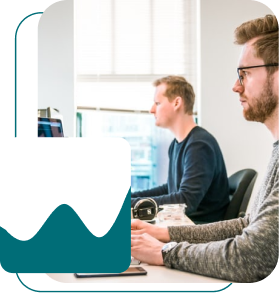
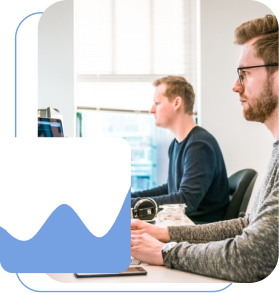
ok

diff --git a/index.html b/index.html
@@ -4,28 +4,30 @@
     <meta charset="UTF-8">
     <meta http-equiv="X-UA-Compatible" content="IE=edge">
     <meta name="viewport" content="width=device-width, initial-scale=1.0">
-    <title>Go Pro landing page</title>
+    <title>Landing Page</title>
+    <link href="https://cdn.jsdelivr.net/npm/bootstrap@5.3.0-alpha1/dist/css/bootstrap.min.css" rel="stylesheet" integrity="sha384-GLhlTQ8iRABdZLl6O3oVMWSktQOp6b7In1Zl3/Jr59b6EGGoI1aFkw7cmDA6j6gD" crossorigin="anonymous">
     <link rel="stylesheet" href="style.css">
+    
 </head>
 <body>
   <section class="hero">
     <section class="semihero-one">
         <div class="nav">
             <div class="nav-logo">
-                <img src="/images/Logo.png" alt="logoGoPro">
+                <img src="/images/logo1.png" alt="logoGoPro">
             </div>
             <div class="nav-menu">
                 <ul>
                     <li class="active"><a href=""></a>Home</li>
-                    <li><a href=""></a>About   <img src="/images/down-arrow.png" alt="downarrowicon" class="downarrowicon"></li>
-                    <li><a href=""></a>Company <img src="/images/down-arrow.png" alt="downarrowicon" class="downarrowicon"></li>
-                    <li><a href=""></a>Pages   <img src="/images/down-arrow.png" alt="downarrowicon" class="downarrowicon"></li>
-                    <li><a href=""></a>Blog    <img src="/images/down-arrow.png" alt="downarrowicon" class="downarrowicon"></li>
-                    <li><a href=""></a>Shop    <img src="/images/down-arrow.png" alt="downarrowicon" class="downarrowicon"></li>
+                    <li><a href=""></a>About</li>
+                    <li><a href=""></a>Blog </li>
+                    <li><a href=""></a>Shop </li>
                 </ul>
             </div>
             <div class="nav-getstartedbtn">
-                <button type="button" class="getstartedbtnone">Get Started <img class="arrowimg" src="/images/right-arrow.png " alt=""></button>
+                <button type="button" class="getstartedbtnone">Get Started <svg xmlns="http://www.w3.org/2000/svg" width="16" height="16" fill="currentColor" class="bi bi-arrow-right" viewBox="0 0 16 16">
+                    <path fill-rule="evenodd" d="M1 8a.5.5 0 0 1 .5-.5h11.793l-3.147-3.146a.5.5 0 0 1 .708-.708l4 4a.5.5 0 0 1 0 .708l-4 4a.5.5 0 0 1-.708-.708L13.293 8.5H1.5A.5.5 0 0 1 1 8z"/>
+                  </svg></button>
             </div>
             <div class="nav-menu-icon">
                 <img src="/images/menu.png" alt="menuicon" class="nav-menu-icon">
@@ -35,17 +37,46 @@
     <section class="semihero-two">    
         <div class="hero-content">
             <div class="hero-content-txt">
-                <p class="titleborder">Digital Marketing Agency</p>
+                <p class="titleborder">Basic Or Home</p>
                 <h1>Advanced analytics to <br> grow your business</h1>
                 <p class="hero-content-pargraph">Amet minim mollit non deserunt ullamco est sit aliqua dolor do amet sint. Velit officia <br> consequat duis enim velit mollit. Exercise veniam consequat sunt nostrud amet.</p>
-                <button type="button" class="getstartedbtntwo">Get Started <img class="arrowimg" src="/images/right-arrow-w.png " alt=""></button>
-                <button type="button" class="howitworksbtn">How it works <img class="arrowimg" src="/images/right-arrow.png " alt=""></button>
+                <button type="button" class="getstartedbtntwo">Get Started <svg xmlns="http://www.w3.org/2000/svg" width="16" height="16" fill="currentColor" class="bi bi-arrow-right" viewBox="0 0 16 16">
+                    <path fill-rule="evenodd" d="M1 8a.5.5 0 0 1 .5-.5h11.793l-3.147-3.146a.5.5 0 0 1 .708-.708l4 4a.5.5 0 0 1 0 .708l-4 4a.5.5 0 0 1-.708-.708L13.293 8.5H1.5A.5.5 0 0 1 1 8z"/>
+                  </svg></button>
+                <button type="button" class="howitworksbtn">How it works <svg xmlns="http://www.w3.org/2000/svg" width="16" height="16" fill="currentColor" class="bi bi-arrow-right" viewBox="0 0 16 16">
+                    <path fill-rule="evenodd" d="M1 8a.5.5 0 0 1 .5-.5h11.793l-3.147-3.146a.5.5 0 0 1 .708-.708l4 4a.5.5 0 0 1 0 .708l-4 4a.5.5 0 0 1-.708-.708L13.293 8.5H1.5A.5.5 0 0 1 1 8z"/>
+                  </svg></button>
             </div>
             <div class="hero-content-img">
                 <img src="/images/Image1.png" alt="heroimage" class="hero-content-img">
             </div>
         </div>
     </section>
-  </section>  
+  </section>
+  <section class="two">
+    <div class="pageTwo">
+    <div class="imgpageTwo">
+        <img src="/images/section1.png" alt="people shaking hands" class="imgpage-Two">
+    </div>
+    <div class="contentpageTwo">
+        <p class="titleborder">Discover Us</p>
+        <h2>Fresh ideas for your business <br> design</h2>
+        <br>
+        <p class="p-pageTwo">Amet minim mollit non deserunt ullamco est sit aliqua dolor do <br> amet sint. Velit officia consequat duis enim velit mollit. <br> Exercise veniam consequat sunt nostrud amet.</p>
+        <br>
+        <img src="/images/Ellipse 1.png" alt="" >
+        <span class="span-name">Garddy</span>
+        <p class="postSpan">Lorem ipsum dolor sit amet consectetur adipisicing elit. Totam mollitia nam beatae doloremque accusantium omnis necessitatibus ex iste velit, suscipit aspernatur est expedita perspiciatis ipsum similique molestiae unde culpa! Voluptas!</p>
+        <img src="/images/Ellipse 2.png" alt="">
+        <span class="span-name">Herdric</span>
+        <p class="postSpan">Lorem ipsum dolor sit amet consectetur adipisicing elit. Perferendis mollitia modi obcaecati magni autem officiis architecto excepturi. Consectetur, harum ea. Suscipit hic odit exercitationem eos molestias provident iusto quo perspiciatis.</p>
+    </div>
+</div>
+    <div class="title-paragraph">
+        <h2>Fresh ideas for your business <br> design</h2>
+        <br>
+        <p class="p-pageTwo">Amet minim mollit non deserunt ullamco est sit aliqua dolor do  amet sint. Velit officia <br> consequat duis enim velit mollit.  Exercise veniam consequat sunt nostrud amet.</p>  
+    </div>
+  </section> 
 </body>
 </html>

diff --git a/style.css b/style.css
@@ -4,7 +4,7 @@
     text-decoration: none;
     list-style: none;
     box-sizing: border-box;
-    font-family: Arial, Helvetica, sans-serif;
+    font-family: sans-serif;
     /* border:  gray solid 1px; */
 }
 
@@ -15,7 +15,7 @@
     align-content: center;
     margin-top: 1.5em;
     margin-bottom: 1.3em;
-    margin-left: 100px;
+    margin-left: 11px;
 }
 
 .nav-menu li {
@@ -25,7 +25,7 @@
 }
 
 .active {
-   color: #3ccde4; 
+   color: #6996da; 
 }
 
 .downarrowicon {
@@ -33,9 +33,11 @@
 }
 
 .getstartedbtnone {
-    height: 35px;
-    background-color: #BEE1E6;
-    padding: 11px 14px;
+    margin-right: -50px;
+    height: 40px;
+    color: white;
+    background-color:  #6996da;
+    padding: 10px 16px;
     border: none;
     border-radius: 9px;
     font-weight:700;    
@@ -43,27 +45,27 @@
     margin-left: 115px;
     box-shadow: 0px 5px 6px 0px rgb(230, 228, 228);
 }
-
-
-.arrowimg {
-    vertical-align:middle;
-    margin-top: -2.1px;
+.bi-arrow-right {
+ margin-bottom: 1px;
 }
+
 
 .nav-menu-icon {
     width: 26px;
-    margin-top: 6px;    
-}
+    margin-top: 6px;
+    margin-left: -41px;
+}    
+
 
 .nav-logo img {
-    width: 140%;
+    width: 256px;
     height: auto;
 }
 
 
 .semihero-two {
-    height: 100vh;
-    background-color: #BEE1E6
+    height: 88vh;
+    background-color: #E1F3FF
 }
 
 .hero-content {
@@ -77,9 +79,9 @@
 
 .titleborder {
     border: none;
-    background-color: #006D77;
-    padding: 9px 13px;
-    width: 35%;
+    background-color: #6996da;
+    padding: 6px 14px;
+    width: 23%;
     color: white;
     border-radius: 15px;
 }
@@ -87,6 +89,7 @@
 .hero-content-txt h1 {
     margin-top: 0.5em;
     font-size: 3.5em;
+    font-weight: 600;
 }
 
 .hero-content-pargraph {
@@ -99,20 +102,21 @@
 .getstartedbtntwo {
     height: 60px;
     color: white;
-    background-color: black;
+    background-color: #6996da;
     padding: 11px 31px;
-    border: none;
+    border: 1px solid #6687B8;
     border-radius: 9px;
     font-weight:700;    
     margin-top: 7px;
+    box-shadow: 0px 5px 6px 0px rgb(196, 193, 193);
 }
 
 .howitworksbtn {
     height: 60px;
-    color: black;
+    color: #5780BB;
     background-color: transparent;
     padding: 11px 31px;
-    border: #5FA7AE solid 1.5px;
+    border: #90B5E8 solid 1.5px;
     border-radius: 9px;
     font-weight:700;    
     margin-top: 7px;
@@ -131,9 +135,63 @@ padding: 50px;
 }
 
 .hero-content-txt {
-margin-bottom: 20%;
+margin-bottom: 11%;
 }
  /* by mistake but nice result haha  */
 /* .hero {
 padding: 50px;
 }  */
+
+.two {
+    height: 100vh;
+}
+
+.pageTwo {
+    display: flex;
+    justify-content: center;
+    margin-top: 100px;
+    gap: 38px;
+}
+
+.contentpageTwo {
+    width: 503px;
+}
+
+.imgpage-Two {
+    width: auto;
+    height: 550px;
+}
+
+.postSpan {
+    margin-left: 40px;
+    margin-top: 2px;
+}
+
+.contentpageTwo h2, .span-name {
+    font-weight: bolder;
+}
+
+.span-name {
+margin-left: 10px;
+}
+
+.postSpan {
+    color: #7F7F7F;
+    font-size: 15px;
+}
+
+.p-pageTwo {
+    color: #7F7F7F;
+    font-size: 17px;
+}
+
+.title-paragraph {
+    text-align: center;
+    margin-top: 80px;
+}
+
+.title-paragraph h2 {
+    font-weight: bolder;
+}
+
+    
